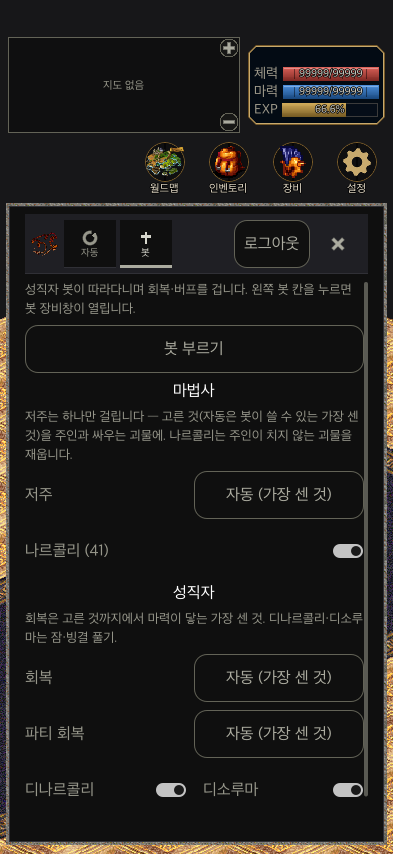
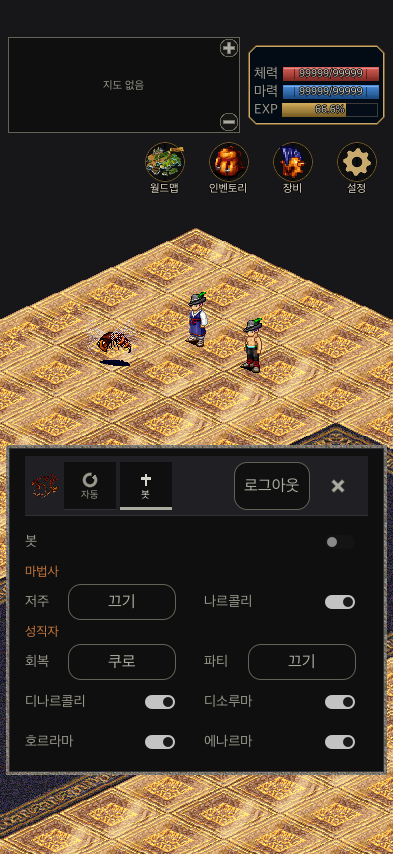
fix(client): 봇 탭을 한 화면으로 — 설명 빼기, 봇 켬/끔, 셀렉트는 마법 이름 그대로(고른 적 없으면 레벨에 맞는 것)·작게·가장자리에서 띄움, 켬은 두 칸씩
Claude-Session: https://claude.ai/code/session_019S3DcaRYrHfinSJ43v9r8s

diff --git a/mobile/client/src/Windows/SettingsPanel.cs b/mobile/client/src/Windows/SettingsPanel.cs
@@ -48,45 +48,30 @@ public sealed partial class SettingsPanel : PanelContainer
         // ── 봇 ───────────────────────────────────────────────
         // 봇(성직자 동료) — 부르면 서버가 봇을 내 곁으로 데려와 파티에 넣는다. 결과는 서버 알림으로 온다(우리 확장 0xF1·0x5E).
         VBoxContainer bot = Page();
-        bot.AddChild(Caption("성직자 봇이 따라다니며 회복·버프를 겁니다. 왼쪽 봇 칸을 누르면 봇 장비창이 열립니다."));
-        Companion = new Button { Text = CallText, CustomMinimumSize = new Vector2(0, Main.TouchMinimum) };
-        Greybox.Plain(Companion);
-        bot.AddChild(Companion);
+        bot.AddThemeConstantOverride("separation", Main.Gutter / 2);
 
-        // 마법사 — 봇이 레벨대로 배운 저주·나르콜리를 쓸지(사용자, 2026-10-03). 바뀌면 게임 화면이 서버로 보낸다(0xF1 6).
-        bot.AddChild(new Label { Text = "마법사", HorizontalAlignment = HorizontalAlignment.Center });
-        bot.AddChild(Caption("저주는 하나만 걸립니다 — 고른 것(자동은 봇이 쓸 수 있는 가장 센 것)을 주인과 싸우는 괴물에. 나르콜리는 주인이 치지 않는 괴물을 재웁니다."));
-        PercentSelect curse = PercentSelect.Of([.. Main.CurseChoices.Select(one => one.Label)], Main.BotCurse, this, width: 170);
-        curse.Changed += index => Order(curse: index);
-        bot.AddChild(Row("저주", curse));
-        bot.AddChild(Row("나르콜리 (41)", Switch(Main.BotSleep, on => Order(sleep: on))));
+        // 부르기·보내기는 켬/끔 한 줄(사용자, 2026-10-03: 공간 적게). 누르면 무엇을 할지는 게임 화면이 정한다.
+        Companion = Switch(false, _ => { });
+        bot.AddChild(BotRow("봇", Companion));
 
-        // 성직자 — 회복은 고른 것까지에서 마력이 닿는 가장 센 것(사용자, 2026-10-03: 저주와 같은 방식으로).
-        bot.AddChild(new Label { Text = "성직자", HorizontalAlignment = HorizontalAlignment.Center });
-        bot.AddChild(Caption("회복은 고른 것까지에서 마력이 닿는 가장 센 것. 디나르콜리·디소루마는 잠·빙결 풀기."));
-        PercentSelect heal = PercentSelect.Of(Main.HealChoices, Main.BotHeal, this, width: 170);
-        heal.Changed += index => Order(heal: index);
-        bot.AddChild(Row("회복", heal));
-        PercentSelect group = PercentSelect.Of(Main.GroupHealChoices, Main.BotGroupHeal, this, width: 170);
-        group.Changed += index => Order(groupHeal: index);
-        bot.AddChild(Row("파티 회복", group));
+        // 마법사·성직자 — 셀렉트는 마법 이름 그대로(고른 적 없으면 봇이 배운 가장 센 것을 보인다, ShowBotLevel), 켬은 두 칸씩.
+        bot.AddChild(Heading("마법사"));
+        _curse = PercentSelect.Of([.. Main.CurseChoices.Select(one => one.Name)], Main.BotCurse, this, SelectWidth, SelectHeight);
+        _curse.Changed += row => Order(curse: row);
+        bot.AddChild(Pair(BotRow("저주", _curse), BotRow("나르콜리", Switch(Main.BotSleep, on => Order(sleep: on)))));
 
-        // 해제 둘·버프 둘은 두 칸씩 두 줄로(사용자: 여러 줄로 늘어놓을 것 없다).
-        GridContainer priests = new() { Columns = 2, SizeFlagsHorizontal = SizeFlags.ExpandFill };
-        priests.AddThemeConstantOverride("h_separation", Main.Gutter * 2);
-        foreach ((string name, CompanionSpells.Priest bit) in new[]
-                 {
-                     ("디나르콜리", CompanionSpells.Priest.Dinarcoli), ("디소루마", CompanionSpells.Priest.Disoruma),
-                     ("호르라마", CompanionSpells.Priest.Horrama), ("에나르마", CompanionSpells.Priest.Enarma),
-                 })
-        {
-            Control row = Row(name, Switch((Main.BotPriest & bit) != 0,
-                on => Order(priest: on ? Main.BotPriest | bit : Main.BotPriest & ~bit)));
-            row.SizeFlagsHorizontal = SizeFlags.ExpandFill;
-            priests.AddChild(row);
-        }
+        bot.AddChild(Heading("성직자"));
+        _heal = PercentSelect.Of([.. Main.HealChoices.Select(one => one.Name)], Main.BotHeal, this, SelectWidth, SelectHeight);
+        _heal.Changed += row => Order(heal: row);
+        _groupHeal = PercentSelect.Of([.. Main.GroupHealChoices.Select(one => one.Name)], Main.BotGroupHeal, this, SelectWidth, SelectHeight);
+        _groupHeal.Changed += row => Order(groupHeal: row);
+        bot.AddChild(Pair(BotRow("회복", _heal), BotRow("파티", _groupHeal)));
 
-        bot.AddChild(priests);
+        Control PriestSwitch(string name, CompanionSpells.Priest bit) =>
+            BotRow(name, Switch((Main.BotPriest & bit) != 0, on => Order(priest: on ? Main.BotPriest | bit : Main.BotPriest & ~bit)));
+        bot.AddChild(Pair(PriestSwitch("디나르콜리", CompanionSpells.Priest.Dinarcoli), PriestSwitch("디소루마", CompanionSpells.Priest.Disoruma)));
+        bot.AddChild(Pair(PriestSwitch("호르라마", CompanionSpells.Priest.Horrama), PriestSwitch("에나르마", CompanionSpells.Priest.Enarma)));
+        ShowBotLevel(0);
 
         // [로그아웃] 은 탭이 아니라 제목 줄에 — 어느 탭에서나 한 번에 닿는다(사용자, 2026-09-26: 종료가 너무 깊고 로그아웃이 안 보인다).
         Exit = new Button { Text = "로그아웃", CustomMinimumSize = new Vector2(76, Main.TouchMinimum), FocusMode = FocusModeEnum.None };
@@ -232,21 +217,79 @@ public sealed partial class SettingsPanel : PanelContainer
 
     public Button Close { get; }
 
-    private const string CallText = "봇 부르기";
-    private const string DismissText = "봇 보내기";
+    /// <summary>봇 켬/끔 — 끈 채 누르면 부르기, 켠 채 누르면 보내기. 누르면 무엇을 할지는 게임 화면이 정한다.</summary>
+    public CheckButton Companion { get; }
 
-    /// <summary>[봇 부르기] — 봇이 있으면 [봇 보내기]. 누르면 무엇을 할지는 게임 화면이 정한다.</summary>
-    public Button Companion { get; }
+    private bool? _present;
 
-    /// <summary>동료가 있나(0x5E)에 따라 단추 글자를 바꾼다.</summary>
+    /// <summary>동료가 있나(0x5E)가 바뀔 때만 켬/끔을 맞춘다 — 누른 뒤 서버 답을 기다리는 동안 되돌아가지 않게.</summary>
     public void ShowCompanion(bool present)
     {
-        string text = present ? DismissText : CallText;
-
-        if (Companion.Text != text)
+        if (_present != present)
         {
-            Companion.Text = text;
+            _present = present;
+            Companion.SetPressedNoSignal(present);
         }
+    }
+
+    private const int SelectWidth = 108;
+    private const int SelectHeight = 36;
+    private readonly PercentSelect _curse;
+    private readonly PercentSelect _heal;
+    private readonly PercentSelect _groupHeal;
+
+    /// <summary>고른 적 없는 셀렉트에 지금 레벨에서 봇이 배운 가장 센 마법 이름을 보인다(게임 화면이 틱마다).</summary>
+    public void ShowBotLevel(int ownerLevel)
+    {
+        if (Main.BotCurse < 0)
+        {
+            _curse.Display(Main.AutoRow([.. Main.CurseChoices.Select(one => one.Level)], ownerLevel));
+        }
+
+        if (Main.BotHeal < 0)
+        {
+            _heal.Display(Main.AutoRow([.. Main.HealChoices.Select(one => one.Level)], ownerLevel));
+        }
+
+        if (Main.BotGroupHeal < 0)
+        {
+            _groupHeal.Display(Main.AutoRow([.. Main.GroupHealChoices.Select(one => one.Level)], ownerLevel));
+        }
+    }
+
+    private static Label Heading(string text)
+    {
+        Label heading = new() { Text = text };
+        heading.AddThemeColorOverride("font_color", Greybox.Accent);
+        heading.AddThemeFontSizeOverride("font_size", 13);
+
+        return heading;
+    }
+
+    /// <summary>봇 탭 한 칸 — 이름 왼쪽, 단추 오른쪽, 창 가장자리에서 띄운다.</summary>
+    private static Control BotRow(string title, Control control)
+    {
+        HBoxContainer row = new() { SizeFlagsHorizontal = SizeFlags.ExpandFill };
+        Label name = new() { Text = title, VerticalAlignment = VerticalAlignment.Center, SizeFlagsHorizontal = SizeFlags.ExpandFill };
+        name.AddThemeColorOverride("font_color", Greybox.Muted);
+        name.AddThemeFontSizeOverride("font_size", 14);
+        control.CustomMinimumSize = new Vector2(control.CustomMinimumSize.X, SelectHeight);
+        row.AddChild(name);
+        row.AddChild(control);
+        row.AddChild(new Control { CustomMinimumSize = new Vector2(Main.Gutter, 0) });
+
+        return row;
+    }
+
+    /// <summary>두 칸을 한 줄에.</summary>
+    private static Control Pair(Control left, Control right)
+    {
+        HBoxContainer pair = new() { SizeFlagsHorizontal = SizeFlags.ExpandFill };
+        pair.AddThemeConstantOverride("separation", Main.Gutter * 2);
+        pair.AddChild(left);
+        pair.AddChild(right);
+
+        return pair;
     }
 
     /// <summary>

diff --git a/mobile/client/src/App/Main.Settings.cs b/mobile/client/src/App/Main.Settings.cs
@@ -109,51 +109,72 @@ public partial class Main : Control
 
     /// <summary>
     /// 봇 탭 — 걸 저주 하나(셀렉트, 저주는 한 칸이라 하나만)·나르콜리 켬·해제 둘과 버프 둘 켬(비트)·회복 셀렉트 둘. 기기에 남는다
-    /// (한 줄 "저주 나르콜리 성직자비트 회복 파티회복"). 처음엔 저주 「자동」(봇이 쓸 수 있는 가장 센 것), 모두 켬, 회복 「자동」.
+    /// (한 줄 "저주 나르콜리 성직자비트 회복 파티회복", 고른 적 없는 셀렉트는 −1). 처음엔 셀렉트 셋 모두 봇이 배운 가장 센 것, 켬은 모두.
     /// 서버는 메모리에만 두므로 바꿀 때와 봇을 부를 때 보낸다(0xF1 6).
     /// </summary>
     private const string BotMagicFile = "user://botmagic.cfg";
 
-    /// <summary>저주 셀렉트의 줄 — 비트가 null 이면 자동(레벨에 맞춘 가장 센 것).</summary>
-    public static readonly (string Label, CompanionSpells.Magic? Bit)[] CurseChoices =
+    /// <summary>저주 셀렉트의 줄(마법 이름 그대로, 끝 줄 끄기) — 레벨은 봇이 배우는 레벨(서버 <c>Companions.PriestSpells</c>).</summary>
+    public static readonly (string Name, int Level, CompanionSpells.Magic Bit)[] CurseChoices =
     [
-        ("자동 (가장 센 것)", null), ("렌토 (11)", CompanionSpells.Magic.Lento), ("바르도 (41)", CompanionSpells.Magic.Bardo),
-        ("데프레코 (71)", CompanionSpells.Magic.Depreco), ("프라보 (99)", CompanionSpells.Magic.Prabo), ("끄기", CompanionSpells.Magic.None),
+        ("렌토", 11, CompanionSpells.Magic.Lento), ("바르도", 41, CompanionSpells.Magic.Bardo), ("데프레코", 71, CompanionSpells.Magic.Depreco),
+        ("프라보", 99, CompanionSpells.Magic.Prabo), ("끄기", 0, CompanionSpells.Magic.None),
     ];
 
-    /// <summary>회복 셀렉트의 줄 — 첫 줄 자동, 끝 줄 끄기, 사이는 <see cref="CompanionSpells.Heals"/> 차례(그것까지).</summary>
-    public static readonly string[] HealChoices = ["자동 (가장 센 것)", "쿠로 (1)", "쿠라노 (21)", "쿠라노소 (55)", "수페라쿠라노 (83)", "엑스쿠라노 (99)", "끄기"];
+    /// <summary>회복 셀렉트의 줄 — <see cref="CompanionSpells.Heals"/> 차례(그것까지), 끝 줄 끄기.</summary>
+    public static readonly (string Name, int Level)[] HealChoices =
+        [("쿠로", 1), ("쿠라노", 21), ("쿠라노소", 55), ("수페라쿠라노", 83), ("엑스쿠라노", 99), ("끄기", 0)];
 
-    public static readonly string[] GroupHealChoices = ["자동 (가장 센 것)", "쿠러스 (11)", "쿠라누스 (63)", "쿠라네라 (87)", "엑스쿠라네라 (99)", "끄기"];
+    public static readonly (string Name, int Level)[] GroupHealChoices =
+        [("쿠러스", 11), ("쿠라누스", 63), ("쿠라네라", 87), ("엑스쿠라네라", 99), ("끄기", 0)];
 
-    public static int BotCurse { get; private set; }
+    /// <summary>고른 줄. −1 은 고른 적 없음 — 봇 레벨(내 레벨 − 2)에서 배운 가장 센 줄(<see cref="AutoRow"/>)을 보이고 그대로 쓴다.</summary>
+    public static int BotCurse { get; private set; } = -1;
 
     public static bool BotSleep { get; private set; } = true;
 
     public static CompanionSpells.Priest BotPriest { get; private set; } = CompanionSpells.Priest.All;
 
-    public static int BotHeal { get; private set; }
+    public static int BotHeal { get; private set; } = -1;
 
-    public static int BotGroupHeal { get; private set; }
+    public static int BotGroupHeal { get; private set; } = -1;
+
+    /// <summary>봇이 이 레벨에서 배운 가장 센 줄, 하나도 없으면 끝 줄(끄기).</summary>
+    public static int AutoRow(int[] levels, int ownerLevel)
+    {
+        int bot = System.Math.Max(1, ownerLevel - 2);
+        int row = levels.Length - 1;
+
+        for (int at = 0; at < levels.Length - 1; at++)
+        {
+            if (levels[at] <= bot)
+            {
+                row = at;
+            }
+        }
+
+        return row;
+    }
 
     /// <summary>지금 봇에게 보낼 것.</summary>
     public static CompanionSettings BotOrdersFor(int ownerLevel) => new(
         Magic: (BotSleep ? CompanionSpells.Magic.Sleep : CompanionSpells.Magic.None)
-               | (CurseChoices[BotCurse].Bit ?? CompanionSpells.DefaultMagic(ownerLevel) & ~CompanionSpells.Magic.Sleep),
+               | CurseChoices[BotCurse >= 0 ? BotCurse : AutoRow([.. CurseChoices.Select(one => one.Level)], ownerLevel)].Bit,
         Priest: BotPriest,
-        Heal: HealPick(BotHeal, HealChoices),
-        GroupHeal: HealPick(BotGroupHeal, GroupHealChoices));
+        Heal: HealPick(BotHeal, HealChoices.Length),
+        GroupHeal: HealPick(BotGroupHeal, GroupHealChoices.Length));
 
-    /// <summary>셀렉트 줄 번호 → 선의 값(0 자동 · k 번째까지 · 255 끄기).</summary>
-    private static int HealPick(int row, string[] choices) => row == choices.Length - 1 ? CompanionSpells.HealOff : row;
+    /// <summary>셀렉트 줄 → 선의 값: 고른 적 없음 0(자동 — 봇이 배운 가장 센 것), k 번째 줄은 k+1(그것까지), 끝 줄 255(끄기).</summary>
+    private static int HealPick(int row, int rows) =>
+        row < 0 ? CompanionSpells.HealAuto : row == rows - 1 ? CompanionSpells.HealOff : row + 1;
 
     public static void SetBotOrders(int curse, bool sleep, CompanionSpells.Priest priest, int heal, int groupHeal)
     {
-        BotCurse = System.Math.Clamp(curse, 0, CurseChoices.Length - 1);
+        BotCurse = System.Math.Clamp(curse, -1, CurseChoices.Length - 1);
         BotSleep = sleep;
         BotPriest = priest & CompanionSpells.Priest.All;
-        BotHeal = System.Math.Clamp(heal, 0, HealChoices.Length - 1);
-        BotGroupHeal = System.Math.Clamp(groupHeal, 0, GroupHealChoices.Length - 1);
+        BotHeal = System.Math.Clamp(heal, -1, HealChoices.Length - 1);
+        BotGroupHeal = System.Math.Clamp(groupHeal, -1, GroupHealChoices.Length - 1);
 
         Godot.FileAccess? writing = Godot.FileAccess.Open(BotMagicFile, Godot.FileAccess.ModeFlags.Write);
 
@@ -167,11 +188,11 @@ public partial class Main : Control
     private static void ReadBotMagic()
     {
         using Godot.FileAccess? reading = Godot.FileAccess.Open(BotMagicFile, Godot.FileAccess.ModeFlags.Read);
-        int[] parts = [.. (reading?.GetLine().Trim().Split(' ') ?? []).Select(one => int.TryParse(one, out int value) ? value : -1)];
+        int?[] parts = [.. (reading?.GetLine().Trim().Split(' ') ?? []).Select(one => int.TryParse(one, out int value) ? value : (int?)null)];
 
-        if (parts.Length == 5 && parts.All(one => one >= 0))
+        if (parts.Length == 5 && parts.All(one => one is not null))
         {
-            SetBotOrders(parts[0], parts[1] != 0, (CompanionSpells.Priest)parts[2], parts[3], parts[4]);
+            SetBotOrders(parts[0]!.Value, parts[1] != 0, (CompanionSpells.Priest)parts[2]!.Value, parts[3]!.Value, parts[4]!.Value);
         }
     }
 

diff --git a/mobile/client/src/Widgets/PercentSelect.cs b/mobile/client/src/Widgets/PercentSelect.cs
@@ -39,9 +39,10 @@ public sealed partial class PercentSelect : Button
     }
 
     /// <summary>이름 목록에서 하나 — 값은 고른 줄의 번호(0부터).</summary>
-    public static PercentSelect Of(string[] labels, int index, Control bounds, int width) => new(labels, 0, index, bounds, width);
+    public static PercentSelect Of(string[] labels, int index, Control bounds, int width, int height) =>
+        new(labels, 0, index, bounds, width, height);
 
-    private PercentSelect(string[] labels, int first, int value, Control bounds, int width)
+    private PercentSelect(string[] labels, int first, int value, Control bounds, int width, int? height = null)
     {
         _labels = labels;
         _first = first;
@@ -50,7 +51,7 @@ public sealed partial class PercentSelect : Button
         _rows = new Button[labels.Length];
         _value = Mathf.Clamp(value, first, first + labels.Length - 1);
         Text = _labels[_value - _first];
-        CustomMinimumSize = new Vector2(width, Main.TouchMinimum);
+        CustomMinimumSize = new Vector2(width, height ?? Main.TouchMinimum);
         Greybox.Plain(this);
 
         VBoxContainer list = new();
@@ -78,6 +79,18 @@ public sealed partial class PercentSelect : Button
         AddChild(_picker);
 
         Pressed += Open;
+    }
+
+    /// <summary>값을 보이기만 한다(알리지 않는다) — 고른 적 없는 봇 셀렉트가 레벨에 따라 바뀐 줄을 보일 때.</summary>
+    public void Display(int value)
+    {
+        value = Mathf.Clamp(value, _first, _first + _labels.Length - 1);
+
+        if (value != _value || Text != _labels[value - _first])
+        {
+            _value = value;
+            Text = _labels[value - _first];
+        }
     }
 
     /// <summary>A new value was picked from the list.</summary>

diff --git a/mobile/client/src/Screens/GameScreen.cs b/mobile/client/src/Screens/GameScreen.cs
@@ -546,6 +546,7 @@ public partial class GameScreen : Control
         KeepGuiding(delta);
         KeepAutoHuntButton();
         _settings.ShowCompanion(_server?.Companion is not null);
+        _settings.ShowBotLevel(_server?.Vitals?.Level ?? 0);
 
         if (Main.CompanionOnStart && _companionSettling >= 0 && _world.MapId > 0 && _server?.Vitals is not null
             && ++_companionSettling == 120)

diff --git a/NEXT.md b/NEXT.md
@@ -1,7 +1,7 @@
 <!-- NEXT-ACTION:START -->
 ## ▶ 지금 할 일 (새 세션은 이 블록부터 — SessionStart 훅이 자동 주입)
 
-- **[현재/2026-10-03] 봇 마법사·성직자 고르기 — 등급 M · `dev:build` · 단계: 구현·검증·리뷰·커밋·배포 끝, 폰 확인 남음.** 봇이 렌토11·바르도41·나르콜리41·데프레코71·프라보99 를 레벨대로 받고, 주인과 싸우는 괴물에 저주 하나, 주인이 치지 않는 괴물에 나르콜리(잠든 것을 본 뒤 20초 안 다시 안 재움, 마력 50% 이상만). 앱 설정 봇 탭: 「마법사」 저주 셀렉트(자동=봇이 쓸 수 있는 가장 센 것·렌토·바르도·데프레코·프라보·끄기) + 나르콜리 켬 · 「성직자」 회복·파티 회복 셀렉트(고른 것까지에서 마력이 닿는 가장 센 것) + 디나르콜리·디소루마·호르라마·에나르마 켬. 선: 0xF1 6 네 바이트 → 0x5E 1 꼬리. SPEC `plans/bot-wizard-curses-2026-10-03.md`, 사진 `shots/bot-magic-tab-2026-10-03.png`.
+- **[현재/2026-10-03] 봇 마법사·성직자 고르기 — 등급 M · `dev:build` · 단계: 구현·검증·리뷰·커밋·배포 끝, 폰 확인 남음.** 봇이 렌토11·바르도41·나르콜리41·데프레코71·프라보99 를 레벨대로 받고, 주인과 싸우는 괴물에 저주 하나, 주인이 치지 않는 괴물에 나르콜리(잠든 것을 본 뒤 20초 안 다시 안 재움, 마력 50% 이상만). 앱 설정 봇 탭(한 화면, 설명 없음): 봇 켬/끔(부르기·보내기) · 「마법사」 저주 셀렉트(렌토·바르도·데프레코·프라보·끄기 — 고른 적 없으면 봇이 배운 가장 센 것의 이름이 보인다) + 나르콜리 켬 · 「성직자」 회복·파티 셀렉트(고른 것까지에서 마력이 닿는 가장 센 것) + 디나르콜리·디소루마·호르라마·에나르마 켬(두 칸씩). 선: 0xF1 6 네 바이트 → 0x5E 1 꼬리. SPEC `plans/bot-wizard-curses-2026-10-03.md`, 사진 `shots/bot-magic-tab-2026-10-03.png`.
   **배포(10-03 10:45)**: 클라우드 서버·봇 5(접속 기록 작업의 커밋 안 된 서버 코드와 함께 빌드) · 아이폰/윈도우 앱 내려받기 페이지(폰이 안 보여 직접 설치는 못 함; 앱에 접속 기록 작업의 커밋 안 된 앱 코드도 들어감).
   **다음**: 폰에 새 앱 → 봇 탭 셀렉트·켬 확인, 41레벨 넘는 캐릭터로 사냥하며 괴물 저주 색·잠 확인. 프라보는 봇 레벨(주인 − 2, 상한 99)로는 아직 못 배운다(주인 101 필요).
 
